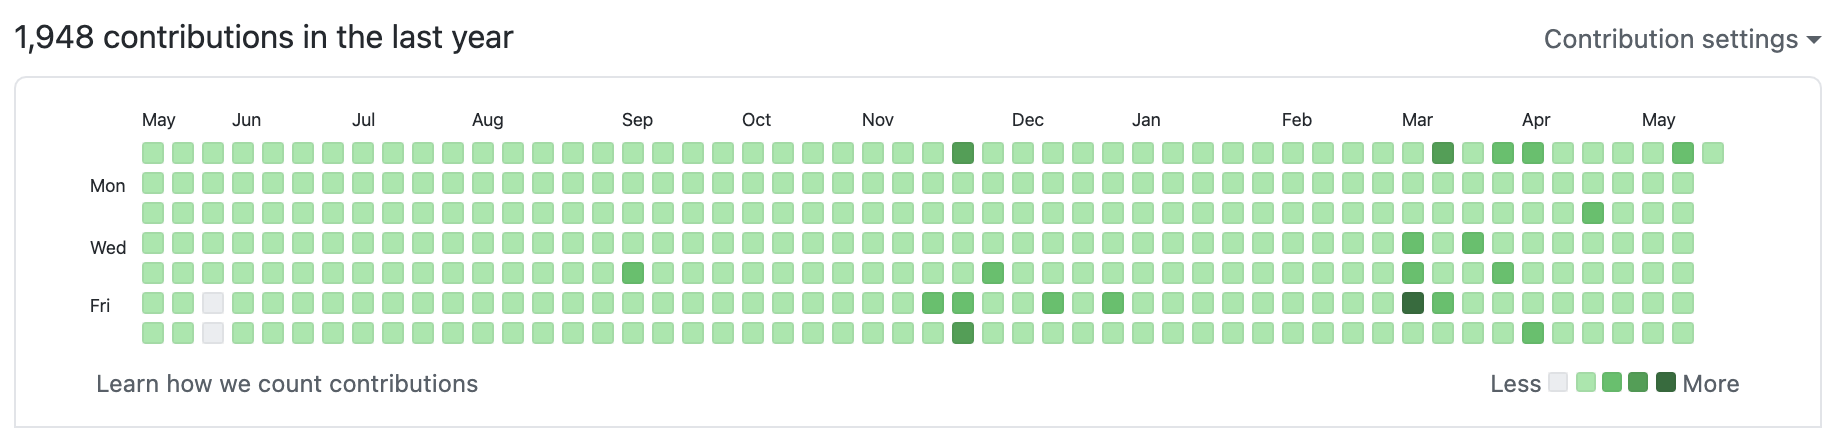
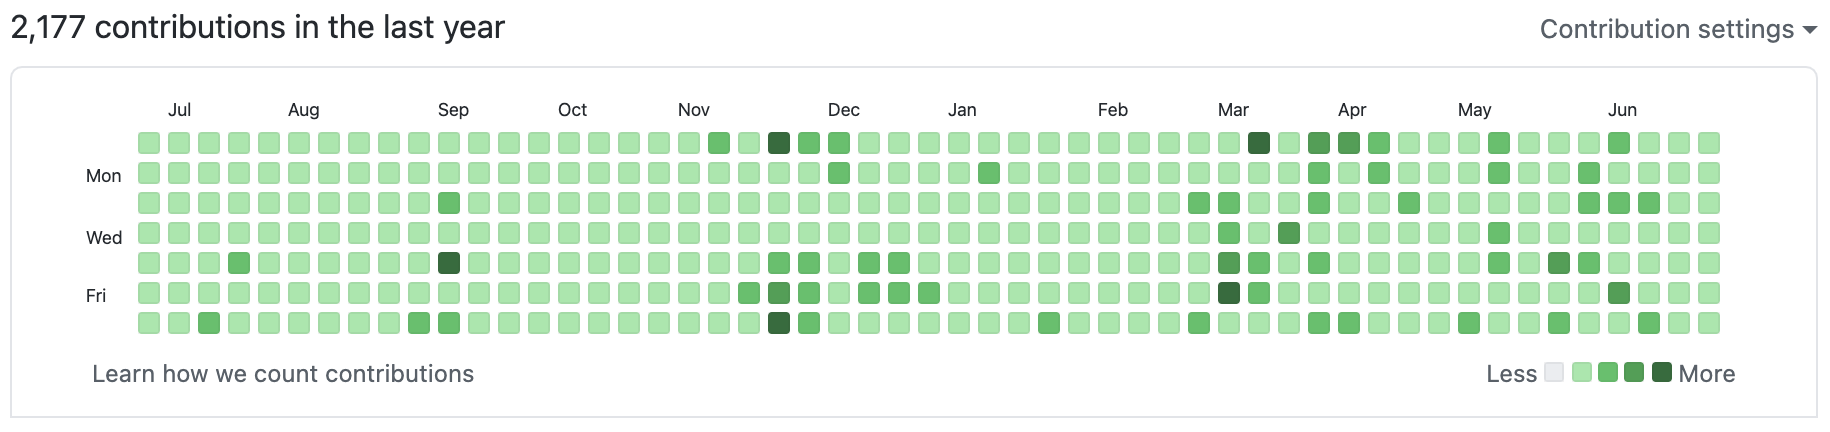
1일 1커밋 회고 발행

diff --git a/temp/365일간의_1일_1커밋_회고/readme.md b/temp/365일간의_1일_1커밋_회고/readme.md
@@ -1,86 +1,134 @@
-# 365일간의 1일 1커밋 회고
+# [Github] 398일간의 1일 1커밋 회고
 
-who, what, where, when, why, how
 
-![지난 1년 간의 커밋 로그](./image1.png)
+### 빈틈없이 잘 가꿔진 잔디밭 만들기
 
+2018년에 깃허브의 '잔디밭'이라는 걸 처음 들었을 때부터 한 번 해보고 싶었다. 몇 번 시도해봤지만 쉽지는 않았다. 그러나 결국 성공했고, 1년하고 한 달만에 프로젝트(?)를 종료하게 되었다. 그리고 정리해보는 회고록. 
+
+
+## When
+
+![커밋 로그](./image1.png)
+<!-- [##_Image|kage@pVuaJ/btq9gAGLcYi/6oVsklyPKjF5KJQwHGSRWK/img.png|alignCenter|width="100%"|_##] -->
+
+2020년 6월 7일 ~ 2021년 7월 9일
+
+정확히 398일. 위 이미지는 2021년 7월 3일에 찍었다.
 
 
 ## Who
 
 ### 1일 1커밋을 시작하는 시점에서의 나는?
 
-- 부서 배치 후 13개월이 지난 주니어 백엔드 개발자
-- 회사에서는 자바, 스프링, 오라클을 주로 사용했다
-- 주문/클레임 개발 팀에서 제휴 API를 담당하고 있었다.
-- 경제학 전공, 유학동양학을 복수전공한 비전공 출신 개발자
+- 14개월 경력의 주니어 백엔드 개발자.
+- 업무적으로 자바, 스프링, 오라클을 주로 사용했다.
+- 주문개발팀에서 제휴 API를 담당하고 있었다.
+- 경제학 전공, 유학동양학을 복수전공한 비전공 출신 개발자.
+
+### 1일 1커밋을 종료한 시점에서의 나는?
+
+- 27개월 경력의 주니어 백엔드 개발자. 주니어급이긴 하지만, 다른 신규 입사자분의 멘토(?) 역할을 하는 중.
+- 여전히 자바, 스프링이 메인. 그러나 MSA가 진행되면서 DB를 기존 메인 오라클에서 포스트그레로 변경 중.
+- 주문개발팀은 제휴서비스팀으로 분리. 제휴 API 업무는 똑같으나 담당하는 업체가 늘어났다.
+- 사이드 프로젝트로 구글/애플 스토어에 게임을 출시했다.
+
+정리를 해보니 지난 1년간 발전이 있긴 했던 것 같다. 회사에서는 이젠 담당 영역에서 메인 개발자로 일하고 있다. 내 이름을 걸고 서비스 출시도 했다. 따로 적진 않았지만 2~5월에는 흔히 말하는 네카라쿠배 중 3곳에서 면접을 봤고, 내가 무엇이 부족했는지, 앞으로 어떤 방향으로 나아가야할지도 다시 한 번 생각해볼 수 있었다.
+
 
 ## Why
 
-2020년에는 서른살이 됐다. 그래도 서른이 되어도 별 느낌이 없을 줄 알았는데 생각보다 생각이 많았다. 앞으로 무엇을 해야하나에 대한 생각이 계속 들었다. 그래서 자연스럽게 난 지금까지 무엇을 해왔나, 지난 20대를 쭉 곱씹어보고, 돌이켜보는 시간을 계속 가졌다.
+사실 1일 1커밋 자체가 무언가 엄청난 걸 보여주는 것은 아니다. 그래서 별로 쓸모없다고 생각하는 의견도 많다고 알고 있다. 그럼에도 내가 이걸 해야겠다 생각한 이유는?
 
-> 난 무엇을 할 때 가장 즐거웠을까?
-나는 무엇을 했는가, 무엇을 할 때 즐거웠고, 지금 가장 의미있었던 시간으로 남는가. 내가 해야지 하고 했던 것, 해야지 하고 하지 못했던 것.
+2020년에는 서른이 됐다. 서른이 되어도 별 느낌 없을 줄 알았다. 생각보다 생각이 많았다.
 
-20살이 될 때부터, 난 취직 뭐 그런 건 잘 모르겠고 일단 최대한 많은 경험을 하는 게 목표였었다. 나름 적지 않은 경험을 했던 것 같고, 그 기억들을 계속 돌려보고 돌려봤다.
+> 앞으로 무엇을 해야하나  
+> 어떻게 살아야 하나
 
-결론적으로 이제 와서 나한테 재밌게 살았다고 기억에 남는 시간들은 가장 바쁘고 열심히 살았을 때였다.
+위와 같이 30대를 어떻게 보내야 하나에 대한 생각을 제일 많이 했다. 자연스럽게 지금까지의 내 삶을 돌아보는 시간을 많이 가졌다.
 
-해가 뜰 즈음에 집에서 나와서 막차를 타고 집에 들어오던 날들. 밤새 작업하다가 아침 수업 가던 날들. 무언가 목표를 가지고, 그 목표를 위해서 매진하던 날들이 나한테는 20대의 가장 좋은 기억으로 남아버렸다. 반면에 마냥 놀면서 편하게 지냈던 날들도 있다. 매일 같이 술 먹고, 놀러가고 별 걱정없이 편하게 지냈던 시기들. 보통 그런 시기들을 재밌었다고 얘기하고, 나도 그 당시 재밌게 지내긴 한 것 같은데 이제 와서 돌이켜보니 별로 재밌었단 느낌이 안 든다.
+> 난 지금까지 무엇을 했지?  
+> 어떻게 살아왔지?
 
-그리고 내가 앞으로 무엇을, 어떻게 하며 살아야할까 결론을 내릴 수 있었다. 일단 목표는 
+결론은 **나는 죽어라 바쁘게 지내고 무언가에 매진할 때 가장 즐거웠다**. 20대의 85퍼센트를 차지하는 대학생활 동안 가장 기억에 남는 시간들을 생각해보니, 공통적으로 아침 해 뜰 때 나가서 밤 막차 타고 들어오던 나날들이었다. 마냥 늘어져라 퍼자고, 오후에 일어나서 술 먹으러 나가고 새벽에 들어오던 날들도 있었다. 그럴 때가 더 재밌는 시기일 것 같은 이미지가 있는데, 정작 나한테 **아 이 때 좋았지**라고 기억에 남은 시간은 무언가 바쁘게 열심히 할 때였다.
+
+그래서 앞으로 어떻게 살아야할지에 대한 결론을 내릴 수 있었다. 그래서 우선 작은, 하지만 쉽지는 않은 목표를 세우기로 했다. 
 
 - 1일 1커밋
-- 주 3회 크로스핏
+- 주3회 이상 크로스핏
 
-
-### 1일 1커밋이 어떤 의미가 있을까?
-
-왜 했냐고 물었을 때, 그냥 해보고 싶어서라고 답할 수 밖에 없다. 원래 나의 모든 행동에 큰 의미나 이유를 두고 하지는 않는다. '그냥 해보고 싶어서'가 내가 해왔던 많은 경험들의 큰 동기였고, 그렇게 했던 모든 경험들에서 어떤 교훈을 얻어왔었다. 일단 해보고, 거기서 배우기.
-
-
-## What
-
-### 무엇을 커밋했는가.
-
-#### 1. 알고리즘 문제풀이
-
-지난 1년간 커밋에서 상당한 비중을 차지하고 있다. 일단 매일 무언가를 커밋할만큼 대단한 사이드 프로젝트를 하고 있거나, 아이디어가 있지도 않았다. 그리고 
-
-#### 2. 사이드 프로젝트
-
-이것저것 사이드 프로젝트를 많이 벌렸었다. 많이 벌린 이유는 커밋할 거리를 만들기 위해서가 컸다. 단지 알고리즘만 주구장창 풀어서 커밋하기에는 1일 1커밋 프로젝트에서 얻을 수 있는 것이 적다고 생각했기 때문이다.
-
-#### 3. 블로그 포스팅
-
-프로젝트를 시작한지 10개월쯤 된 시점에서 시작했다. 계기는 흔히 말하는 네카라쿠배 중 한 회사의 면접이었다. 그동안 막연히 CS의 중요성에 대해서 생각하면서도, 일단 커밋을 하기 위해 무언가 '코딩'을 할 필요가 있었다. 프로젝트의 본질은 '학습'이었는데, 학습의 여러 방법 중 하나인 '코딩'에만 집중해 있었던 것이다.
-
-이제는 CS 공부를 시작해야할 때라고 생각했고, 한동안 멈췄던 티스토리 블로그를 다시 시작했다. 그리고 마크다운으로 포스팅을 작성하고, 깃허브에 저장하기로 했다.
-
- - `티스토리에 쓴 컨텐츠`가 아니라 '내가 작성한 컨텐츠'로서, 블로그 플랫폼에 발행하고 끝이 아니라 지속적으로 내용을 업데이트 하는 나의 지적 자산이 되어야 한다고 생각했다.
- - 깃허브 페이지, 벨로그 등 개발자가 주로 쓰는 블로그 플랫폼은 마크다운을 지원하기 때문에 향후 블로그 이전을 원할 때 쉽게 옮길 수 있을 것이라 생각했다.
-
-### 무엇을 얻었는가.
-
-이 포스팅에서 가장 중요한 문단인 것 같다.
-
-나는 습관이 중요하다고 생각하는 사람이다.
-
-강성태의 66일 공부법
-
-
-## Where
-
-## When
-
-2020년 5월 17일 ~ 2021년 5월 16일
+무언가를 성실하게 꾸준히 하는 것은 굉장히 중요한 능력이라고 생각한다.
 
 
 ## How
 
-1일 1커밋은 사실 2020년 5월 17일에 땡! 하고 시작했던 것은 아니다. 2018년에 처음 깃허브를 사용해보고, 같이 공부하던 친구한테 잔디밭이 무엇인지 설명을 들었을 때부터 이거 꽉 채워보면 좋겠다고 생각했었다. 그런데 쉽지 않았다! 2018년에는 정말 무엇을 커밋해야 할지 몰라서였고, 2019년에는 정말 꾸준히 하는 게 어려워서 실패했다. 2020년이 되면서부터 다시 도전해봤는데, 1~3월까지 뭔가 꾸준히 하긴 했는데, 계속 하루씩 빼먹는 날이 생겼었다.
+![그냥 하는 거지](./image2.jpeg)
+<!-- [##_Image|kage@V6HLV/btq9nDBxwW9/FyKGTesxkaDwaFkO5vqhk0/img.jpg|alignCenter|width="100%"|_##] -->
 
-그리고 내가 정신적, 신체적으로 매우 지쳐있다고 생각했었다. 그래서 4월 중순부터 딱 1달간만 아무 개발도 안 하고 쉬기로 했다. 정확히 31일을 쉬고, 새 잔디밭 컬럼이 시작하는 일요일부터 프로젝트를 재개했다
+그냥 퇴근하고 집에 바로 안 들어가고 운동 끝나고 카페로 갔다. 거리두기 이전에는 매일 밤 11시-12시 정도에 집에 들어왔다.
 
-![2020년 커밋 로그](./image2.png)
-(2월에 빈 건 관리 안 하는 레포지토리를 삭제해서 그렇다.)
+원래 1일 1커밋 프로젝트 시작은 2월말이었다. 그 때는 크로스핏을 집 근처에 해서 우선 퇴근하고 집에 왔었다. 집에서 저녁을 먹으니 자연스럽게 침대에서 약간 쉬게 됐다. 그리고 그대로 잠들고 12시가 넘어버린다거나 하는 불상사가 종종 발생했다.
+
+![2020년 커밋 기록](./image3.png)
+<!-- [##_Image|kage@51TzK/btq9gBeDp8A/KcGfdjMdQi6vQ3t1sFKzF0/img.png|alignCenter|width="100%"|_##] -->
+
+그리고 내가 좀 지친 것 같단 생각도 계속 있었다. 쉴 땐 확실히 쉬어줘야 한다고 생각한다. 처음부터 운동, 개발 둘 다 잡으려고 하니 버거운 것 같기도 했다. 4월 중순쯤부터 그냥 한달을 확 쉬어버리기로 했다. 회사에 있는 시간을 제외하고는 컴퓨터 건드리지도 않기. 
+
+
+5월 중순까지 4주반을 푹 쉬고 놀고 먹고 하다가, 프로젝트를 재개했다. 크로스핏 3개월 등록기간도 마침 끝나서 회사 근처로 박스를 옮겼다. 퇴근하자마자 운동부터 하고, 밥은 사먹고, 집에 안 들어가고 카페에서 노트북을 펴고 작업을 시작했다. 그렇게 그냥 아무 생각없이 쭉 했다. 
+
+
+## Where
+
+주로 서울 어딘가의 카페. 작년 12월에 모니터를 산 뒤로는 집에서도 한다. 근데 책상이랑 의자가 불편해서 어깨가 너무 아프다. 넓은 집으로 이사 가서 작업 환경을 갖춰두고 싶은 욕심이 생겼다.  
+
+
+## What
+
+### 무엇을 커밋했나
+
+크게 3가지로 나눌 수 있을 것 같다.
+
+- 알고리즘 문제풀이
+- 사이드 프로젝트
+- 블로그 포스팅
+
+#### 1. 알고리즘 문제풀이
+
+프로그래머스와 리트코드 문제의 솔루션 레포지토리를 팠다. 어쨌든 알고리즘은 꾸준히 계속 풀어야 한다고 생각했으니깐. 매일매일 의미있는 난이도의 문제를 푼 건 아니었다. 하지만 레벨 1의 문제라도 약간의 의미는 있었다고 생각한다. 나중에 솔루션을 다시 보니 스트림을 써서 가독성을 높일걸 for문으로 길게 늘여썼다거나, 하는 식으로 문제 풀이법 외적인 것들에 대해서도 발전이 있었음을 느꼈다.ㄴ 
+
+#### 2. 사이드 프로젝트
+
+2개의 사이드 프로젝트를 완료했다. 1번은 가벼운 개인 웹사이트. 이력서 겸 포트폴리오 겸 셀프 브랜딩 겸 학습용 테스트 코드 등등 여러 목적으로 사용할 프로젝트였다. 처음에는 이거 만들면서 코틀린을 학습해보려고 했다가, 자바로 하는 게 더 활용도가 높을 것 같아서 중간에 갈아 엎었다. 회사에선 쓸 일 없는 Docker랑 AWS도 한 번 건드려볼 수 있었고, AWS 메모리 부족으로 내리긴 했는데 카프카도 좀 막연했는데 직접 좀 해보면서 이해도를 높일 수 있었다. 프리티어 끝나고 돈을 내야할 때가 오면 카프카랑 젠킨스를 적용해서 개선을 좀 시켜봐야겠다. 
+
+2번은 냥극탐험 게임. 혼자 유니티를 건드려본지 1년만에, 디자이너랑 같이 첫 작업을 시작한지 딱 6개월만에 구글 플레이와 애플 앱스토어에 게임을 출시할 수 있었다. 업무랑 직접적으로 관련은 없긴 하다. 업무 관점에서 보면 비효율적이긴 했다. 그래도 일단 재미있었다! 그리고 게임을 개발하며 객체지향에 대한 이해가 좀 더 높아졌던 것 같다.
+
+#### 3. 블로그 포스팅
+
+이건 비교적 최근에 시작했다. CS 공부의 필요성을 느끼면서도 일단 '커밋'을 매일 해야해서 제대로 시작을 못하고 있었다. 프로젝트으 본질은 '학습'이었는데, 학습의 여러 방법 중 하나인 '코딩'에만 집중하고 있었던 것이다. 그래서 블로그를 다시 시작하고, 마크다운으로 포스팅을 하기로 했다. 깃허브에 각 컨텐츠를 저장함으로써, 블로그에 비해 컨텐츠를 다시 보고 업데이트기가 더 편해졌다고 생각한다. 많은 개발 블로그 플랫폼들이 마크다운을 지원하기 때문에 블로그를 옮길 때 더욱 쉽게 옮길 수도 있을 것이다.
+
+### 무엇을 얻었나.
+
+명확한 인과관계는 없다. 다만 유의미한 상관관계가 있다고 생각한다. 무언가를 매일 한다는 건 결코 아무 의미가 없지 않다고 생각한다. 물론 아무 의미없는, 예를 들어 주석 한 줄 달아두는 커밋을 1년간 하는 건 의미가 없긴 하겠다. 근데 뭐 내가 그런 식으로 한 건 아니니깐.
+
+#### 1. 2개의 프로젝트 완결
+
+어쨌든 나는 2개의 사이드 프로젝트를 완성했다. 항상 시작보다 끝맺음을 잘하는 게 어렵다. 물론 종료라고 완전 종료는 아니고 계속 업데이트할 프로젝트들이긴 하지만, 1.0 버전을 공개된 장소에 올려두었다는 것 자체가 큰 의미가 있다고 생각한다.
+
+#### 2. 개발 습관
+
+노력은 습관이라고 생각한다. 시간은 생각보다 금방 간다. 내일 해야지, 오늘 하루 쯤 미뤄도 돼 하다보면 몇날며칠이 훌쩍 갔던 것 같다. 작게라도 오늘 하고 별 의미가 없는 일이라도 오늘 하다보면 하루쯤은 크고 의미가 없는 일을 할 것이다. 이렇게라도 매일 하는 경우가, 그렇지 않은 경우보다 의미 있는 일을 하는 횟수가 더 많을 것이라고 나는 생각한다.
+
+### 3. 자신감
+
+어쨌든 난 무엇을 해도 할 것 같다. 20대 초반까지 계속 이런 생각을 하면서 살았었다. 근데 30대가 되니깐 그런 생각이 들었다. 나는 입만 산 놈은 아닐까. 말만 하고 행동은 하지 않는 사람. 주변에서 쉽게 볼 수 있는데, 나도 그런 사람들 중 한 명은 아니었을까. 성공하든 실패하든, 어쨌든 나는 내가 무언가를 하는 사람이라는 건 증명한 것 같다.  
+
+![머슬업](./image5.gif)
+<!-- [##_Image|kage@c6q50j/btq9ml2cHMh/svQPkaglkN6YRkQke2S9hK/img.gif|alignCenter|width="100%"|_##] -->
+
+개발 외적으로 또 다른 목표였던 머슬업은 불과 6개월만에 성공했다.
+
+### 앞으로 무엇을 할까
+
+원래는 딱 1년 커밋을 이어가고 회고록을 작성하려고 했었다. 그런데 6월은 게임 출시 준비가 한창이라 바빴다. 그래서 일단 관성을 유지했다. 7월 1일 게임을 출시하고 초반 업데이트 작업을 하며 7월 8일에 1.2 버전을 출시하며 당장 해야할 일들을 마쳤다.
+
+6월 쯤부턴가 내내 생각하기를, 아무래도 번아웃이 왔던 것 같다. 그래서 다시 작년 4-5월처럼 푹 쉬어주기로 결정했다. 8월말까지 여름방학을 가질 생각. 마침 실리콘밸리 시즌 5,6이 왓챠에 올라왔다. 일단 이걸 좀 봐야겠다. 물론 작년처럼 아예 아무 것도 안 하지는 못할 것 같다. 게임 업데이트가 있을 수도 있고, 공부나 블로그 포스팅도 좀 틈틈이 하긴 하겠지만, 약간은 널널하게 살아봐야겠다.
